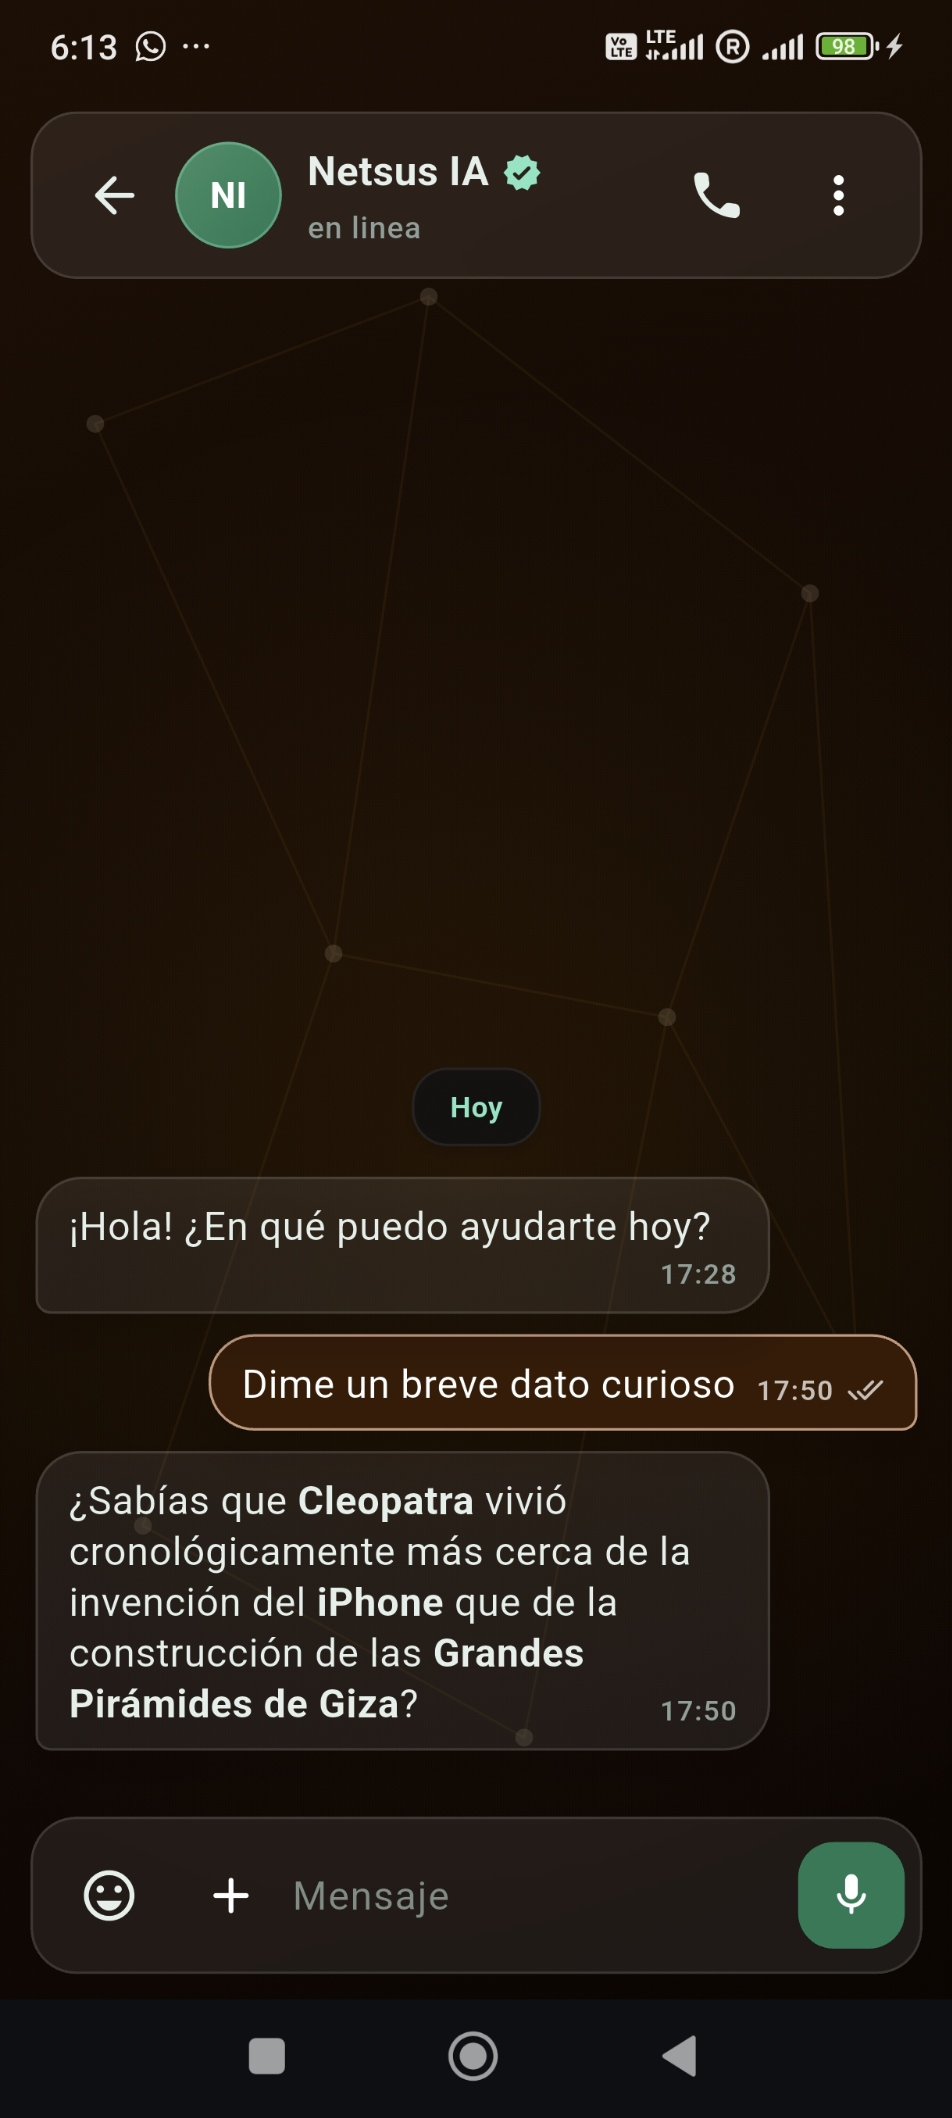
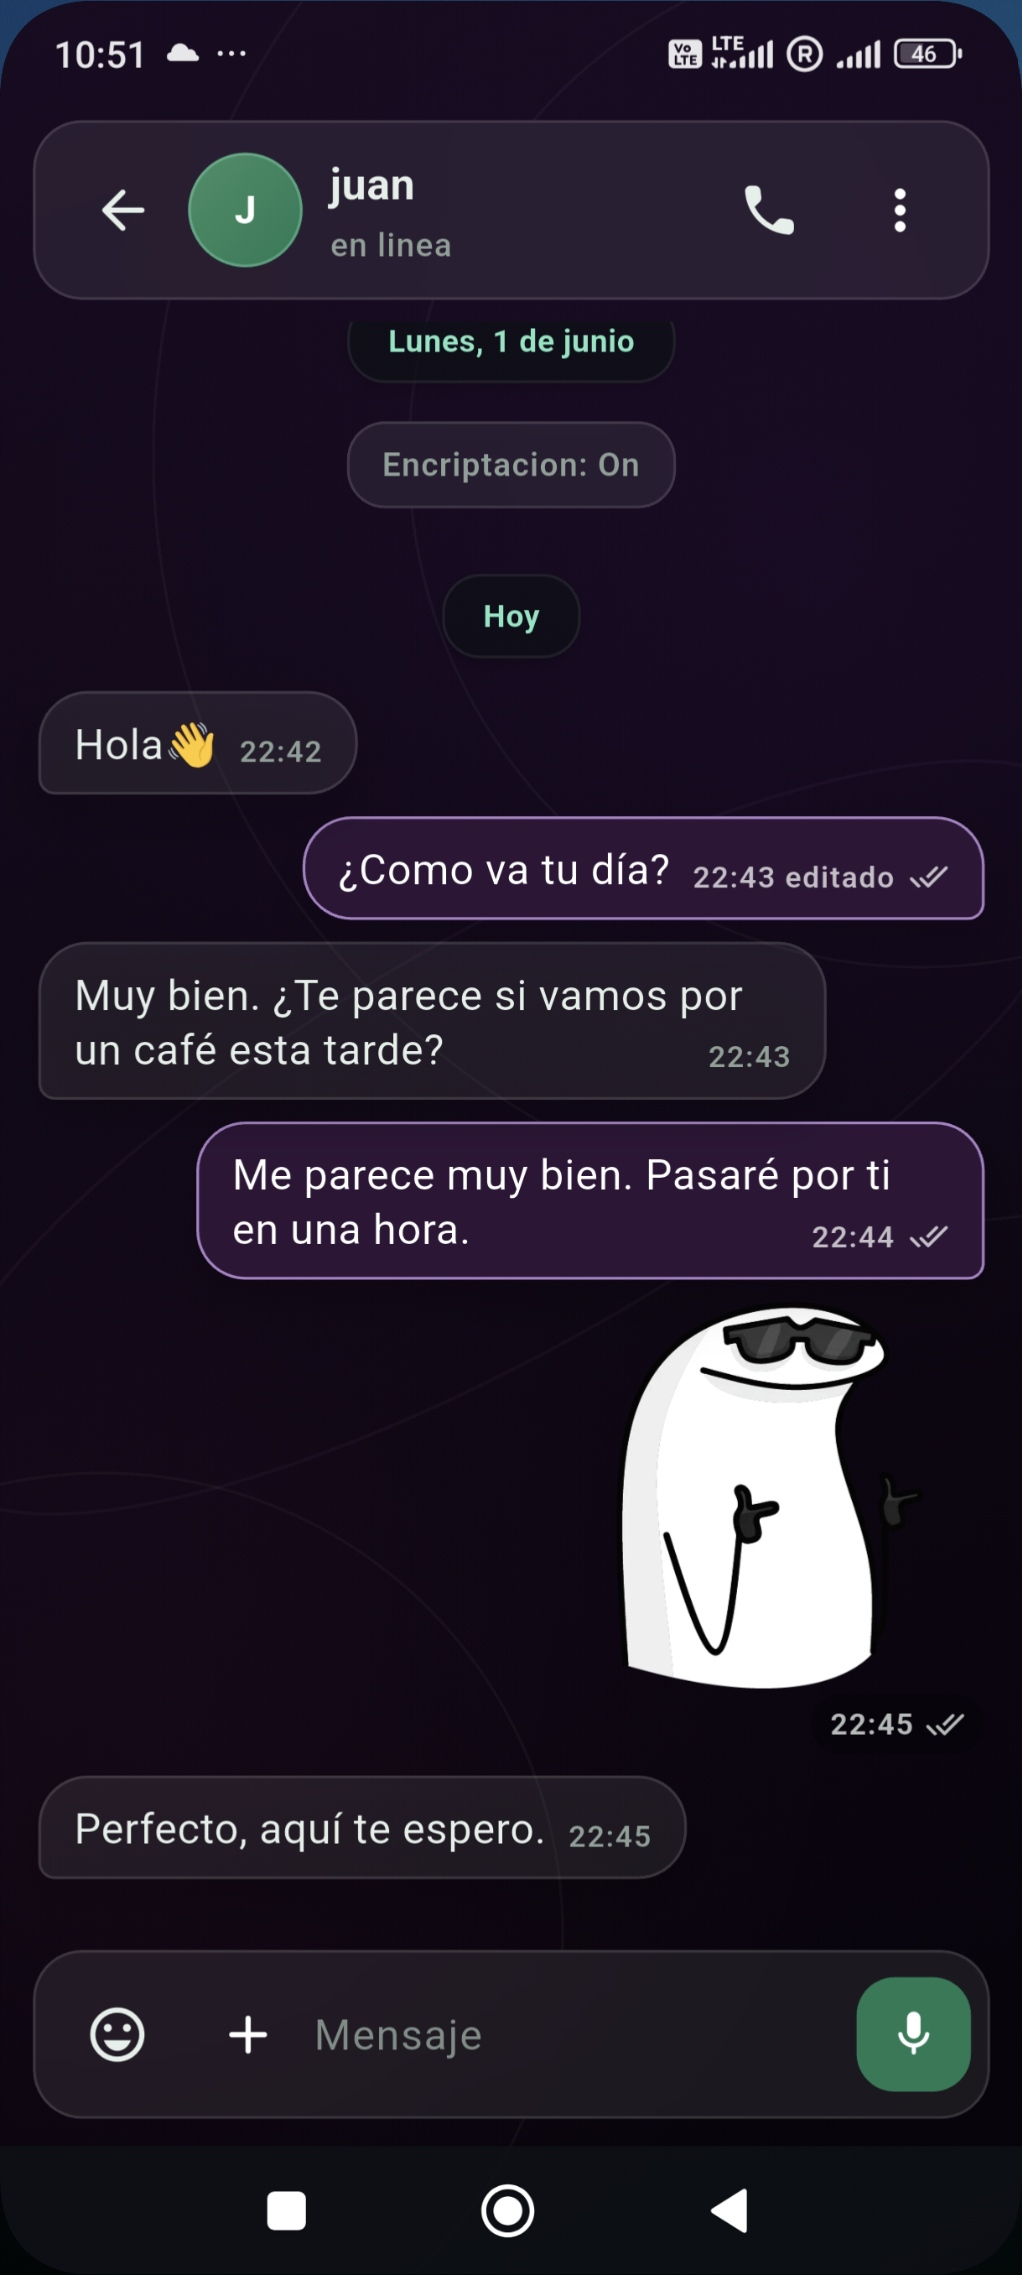
Mover mockup original a seccion de IA y colocar la captura mas reciente en el mockup principal

diff --git a/index.html b/index.html
@@ -879,14 +879,9 @@
           <img src="chats_screenshot.png" alt="Pantalla de Chats de Netsus" style="width: 100%; height: auto; display: block;" />
         </div>
         
-        <!-- Showcase Placeholder 2 -->
-        <div class="showcase-placeholder" style="height: 577px;">
-          <svg class="showcase-icon" fill="none" stroke="currentColor" viewBox="0 0 24 24" xmlns="http://www.w3.org/2000/svg">
-            <rect x="5" y="2" width="14" height="20" rx="2" ry="2" stroke-width="2"></rect>
-            <line x1="12" y1="18" x2="12.01" y2="18" stroke-width="3" stroke-linecap="round"></line>
-          </svg>
-          <span class="showcase-text">Conversación de IA</span>
-          <span class="showcase-subtext">Agrega aquí la captura chateando con el Bot</span>
+        <!-- Showcase Card 2 (AI Conversation) -->
+        <div class="showcase-placeholder" style="padding: 0; overflow: hidden; border-style: solid; border-color: var(--glass-border); background: transparent; height: auto;">
+          <img src="ai_screenshot.png" alt="Conversación de IA de Netsus" style="width: 100%; height: auto; display: block;" />
         </div>
         
         <!-- Showcase Card 3 (Chat Styles) -->
